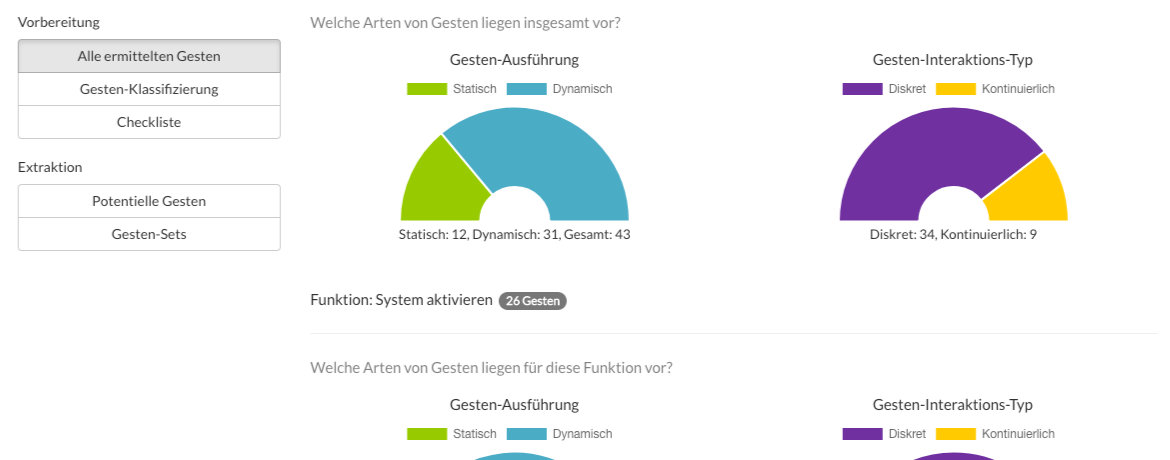
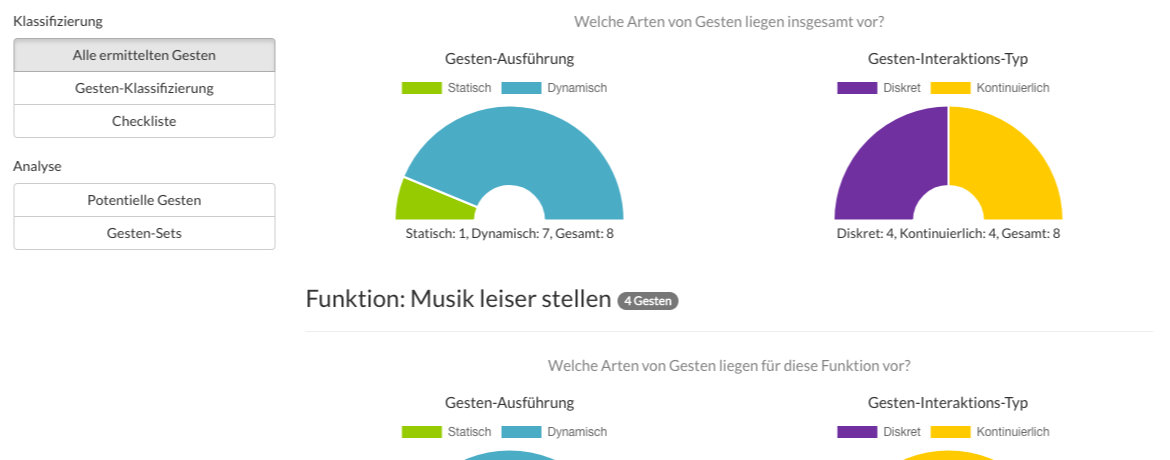
- update introductions - fix bugs for introductions

diff --git a/js/study.js b/js/study.js
@@ -1,4 +1,4 @@
-function renderData(data, hash, showStudyTutorial, showExtractionTutorial) {
+function renderData(data, hash) {
     var studyData = data.studyData;
     // general data view
     $('#study-headline').text(studyData.generalData.title);
@@ -206,6 +206,11 @@ function renderData(data, hash, showStudyTutorial, showExtractionTutorial) {
             window.location.hash = activeId;
             $(document).scrollTop(0);
             TweenMax.from($('#main-content'), .2, {y: -10, opacity: 0.0, clearProps: 'all'});
+            
+            setTimeout(function() {
+                tutorialAutomaticClicked = true;
+                $('#tab-introduction a').click();
+            }, 300);
         }
     });
 
@@ -216,9 +221,9 @@ function renderData(data, hash, showStudyTutorial, showExtractionTutorial) {
         $('#tab-pane').find('#general a').click();
     }
 
-    if (showStudyTutorial === 1 || showExtractionTutorial === 1) {
-        $('#tab-introduction a').click();
-    }
+//    if (showStudyTutorial === 1 || showExtractionTutorial === 1) {
+//        $('#tab-introduction a').click();
+//    }
 
     function renderCatalogs() {
         // catalogs view

diff --git a/study.php b/study.php
@@ -247,14 +247,14 @@ if (login_check($mysqli) == true) {
 
                     <div class="col-sm-4 col-md-3" style="margin-bottom: 20px">
                         <div data-spy="affix" data-offset-top="0" id="gesture-extraction-navigation">
-                            <h5 class="text"><?php echo $lang->extractionContent->preparation ?></h5>
+                            <h5 class="text"><?php echo $lang->extractionContent->classification ?></h5>
                             <div class="btn-group-vertical btn-block" id="btns-general">
                                 <button class="btn btn-default btn-shadow" type="button" id="btn-all-gestures"><span class="btn-text"><?php echo $lang->extractionContent->allElicitedGestures ?></span></button>
                                 <button class="btn btn-default btn-shadow" type="button" id="btn-gesture-classification"><span class="btn-text"><?php echo $lang->extractionContent->gestureClassification ?></span></button>
                                 <button class="btn btn-default btn-shadow" type="button" id="btn-checklist"><span class="btn-text"><?php echo $lang->extractionContent->checklist ?></span></button>
                             </div>
 
-                            <h5 class="text" style="margin-top: 20px"><?php echo $lang->phaseType->extraction ?></h5>
+                            <h5 class="text" style="margin-top: 20px"><?php echo $lang->extractionContent->analysis ?></h5>
                             <div class="btn-group-vertical btn-block" id="btns-arrange-gesture-sets">
                                 <button class="btn btn-default btn-shadow disabled" type="button" id="btn-potential-gestures"><span class="btn-text"><?php echo $lang->extractionContent->potentialGestures ?></span></button>
                                 <button class="btn btn-default btn-shadow disabled" type="button" id="btn-gesture-sets"><span class="btn-text"><?php echo $lang->gestureSets ?></span></button>
@@ -384,14 +384,14 @@ if (login_check($mysqli) == true) {
 
                     <div class="col-sm-4 col-md-3" style="margin-bottom: 20px">
                         <div data-spy="affix" data-offset-top="0" id="trigger-extraction-navigation">
-                            <h5 class="text"><?php echo $lang->extractionContent->preparation ?></h5>
+                            <h5 class="text"><?php echo $lang->extractionContent->classification ?></h5>
                             <div class="btn-group-vertical btn-block" id="btns-general">
                                 <button class="btn btn-default btn-shadow" type="button" id="btn-all-trigger"><span class="btn-text"><?php echo $lang->extractionContent->allElicitedTrigger ?></span></button>
                                 <button class="btn btn-default btn-shadow" type="button" id="btn-trigger-classification"><span class="btn-text"><?php echo $lang->extractionContent->triggerClassification ?></span></button>
                                 <button class="btn btn-default btn-shadow" type="button" id="btn-checklist"><span class="btn-text"><?php echo $lang->extractionContent->checklist ?></span></button>
                             </div>
 
-                            <h5 class="text" style="margin-top: 20px"><?php echo $lang->phaseType->extraction ?></h5>
+                            <h5 class="text" style="margin-top: 20px"><?php echo $lang->extractionContent->analysis ?></h5>
                             <div class="btn-group-vertical btn-block" id="btns-arrange-trigger-sets">
                                 <button class="btn btn-default btn-shadow disabled" type="button" id="btn-potential-trigger"><span class="btn-text"><?php echo $lang->extractionContent->potentialTrigger ?></span></button>
                                 <!--<button class="btn btn-default btn-shadow disabled" type="button" id="btn-gesture-sets"><span class="btn-text"><?php echo $lang->gestureSets ?></span></button>-->
@@ -604,6 +604,9 @@ if (login_check($mysqli) == true) {
                 });
             });
 
+            var showStudyTutorial = 0;
+            var showExtractionTutorial = 0;
+            var tutorialAutomaticClicked = false;
             function onAllExternalsLoadedSuccessfully() {
                 renderSubPageElements();
                 var query = getQueryParams(document.location.search);
@@ -612,9 +615,9 @@ if (login_check($mysqli) == true) {
                     getStudyById({studyId: query.studyId}, function (result) {
                         if (result.status === RESULT_SUCCESS) {
                             setStudyData(result);
-                            var showStudyTutorial = parseInt(<?php echo $_SESSION['tutorialStudy'] ?>);
-                            var showExtractionTutorial = parseInt(<?php echo $_SESSION['tutorialExtraction'] ?>);
-                            renderData(result, hash, showStudyTutorial, showExtractionTutorial);
+                            showStudyTutorial = parseInt(<?php echo $_SESSION['tutorialStudy'] ?>);
+                            showExtractionTutorial = parseInt(<?php echo $_SESSION['tutorialExtraction'] ?>);
+                            renderData(result, hash);
                             initPopover();
                         }
                     });
@@ -623,31 +626,61 @@ if (login_check($mysqli) == true) {
 
             $('#tab-introduction a').on('click', function (event) {
                 event.preventDefault();
-                var activeTab = $('#tab-pane').find('.active a').attr('href');
-                var helpContext = 'study';
-                var helpKey = 'introductionStudy';
+//                showStudyTutorial = parseInt(<?php echo $_SESSION['tutorialStudy'] ?>);
+//                showExtractionTutorial = parseInt(<?php echo $_SESSION['tutorialExtraction'] ?>);
+                var showTutorial = false;
 
-                if (activeTab !== '#generalData') {
-                    switch (activeTab) {
-                        case '#study-catalogs':
-                            $('#custom-modal').attr('data-start-tab-id', 'study-catalogs');
-                            break;
-                        case '#study-participants':
-                            $('#custom-modal').attr('data-start-tab-id', 'study-participants');
-                            break;
-                        case '#gesture-extraction':
-                            $('#custom-modal').removeAttr('data-start-tab-id');
-                            helpKey = 'introductionExtraction';
-                            helpContext = 'extraction';
-                            break;
+                console.log('show tutorial', tutorialAutomaticClicked, showStudyTutorial, showExtractionTutorial);
+                if (tutorialAutomaticClicked === false || (tutorialAutomaticClicked === true && (showStudyTutorial === 1 || showExtractionTutorial === 1))) {
+                    var activeTab = $('#tab-pane').find('.active a').attr('href');
+                    var helpContext = 'study';
+                    var helpKey = 'introductionStudy';
+
+                    if (activeTab !== '#generalData') {
+                        switch (activeTab) {
+                            case '#general-infos':
+                                $('#custom-modal').removeAttr('data-start-tab-id');
+                                showTutorial = tutorialAutomaticClicked === false || showStudyTutorial === 1;
+                                break;
+                            case '#study-catalogs':
+                                $('#custom-modal').attr('data-start-tab-id', 'study-catalogs');
+                                showTutorial = tutorialAutomaticClicked === false || showStudyTutorial === 1;
+                                break;
+                            case '#study-participants':
+                                $('#custom-modal').attr('data-start-tab-id', 'study-participants');
+                                showTutorial = tutorialAutomaticClicked === false || showStudyTutorial === 1;
+                                break;
+                            case '#gesture-extraction':
+                                var activeExtractionTab = $('#gesture-extraction-navigation').find('.active').attr('id');
+
+                                switch (activeExtractionTab) {
+                                    case 'btn-all-gestures':
+                                    case 'btn-gesture-classification':
+                                    case 'btn-checklist':
+                                        $('#custom-modal').removeAttr('data-start-tab-id');
+                                        break;
+                                    case 'btn-potential-gestures':
+                                    case 'btn-gesture-sets':
+                                    case 'btn-potential-trigger':
+                                        $('#custom-modal').attr('data-start-tab-id', 'analysis');
+                                        break;
+                                }
+
+                                helpKey = 'introductionExtraction';
+                                helpContext = 'extraction';
+                                showTutorial = tutorialAutomaticClicked === false || showExtractionTutorial === 1;
+                                break;
+                        }
+                    }
+
+                    if (showTutorial) {
+                        $('#custom-modal').attr('data-help-items-key', helpKey);
+                        $('#custom-modal').attr('data-help-context', helpContext);
+                        $('#custom-modal').attr('data-help-show-tutorial', parseInt(helpContext === 'study' ? showStudyTutorial : showExtractionTutorial));
+                        loadHTMLintoModal('custom-modal', 'externals/modal-introduction.php', 'modal-lg');
                     }
                 }
-
-                console.log(helpContext, helpKey);
-                $('#custom-modal').attr('data-help-items-key', helpKey);
-                $('#custom-modal').attr('data-help-context', helpContext);
-                $('#custom-modal').attr('data-help-show-tutorial', parseInt(helpContext === 'study' ? <?php echo $_SESSION['tutorialStudy'] ?> : <?php echo $_SESSION['tutorialExtraction'] ?>));
-                loadHTMLintoModal('custom-modal', 'externals/modal-introduction.php', 'modal-lg');
+                tutorialAutomaticClicked = false;
             });
 
             $('#btn-scroll-to-top').click(function (event) {

diff --git a/externals/modal-introduction.php b/externals/modal-introduction.php
@@ -46,15 +46,15 @@ include '../includes/language.php';
 <script>
     $(document).ready(function () {
         var modal = $('#custom-modal');
-        var items = $(modal).attr('data-help-items-key');
+        var itemsKey = $(modal).attr('data-help-items-key');
         var startTabId = $(modal).attr('data-start-tab-id');
 
-        console.log(items, translation[items]);
-        var items = translation[items];
+//        console.log(items, translation[items]);
+        var items = translation[itemsKey];
         for (var i = 0; i < items.length; i++) {
             
             var helpItem = items[i];
-            console.log(helpItem);
+//            console.log(helpItem);
             var item = $('#carousel-listbox-item').clone().removeClass('hidden').removeAttr('id');
             $(item).find('img').attr('src', helpItem.imgSrc);
             $(item).find('.carousel-caption-header').text(helpItem.title);
@@ -81,9 +81,9 @@ include '../includes/language.php';
                     $(indicatorItem).addClass('active');
                     $(item).addClass('active');
                 }
-console.log(i, startTabId);
+//console.log(i, startTabId);
                 if (helpItem.description && helpItem.description.length > 0) {
-                    console.log('render help description', helpItem.description);
+//                    console.log('render help description', helpItem.description);
                     $(modal).find('#help-description').removeClass('hidden');
                     $(modal).find('#help-description').html(helpItem.description);
                 }
@@ -100,8 +100,9 @@ console.log(i, startTabId);
 
         $(modal).find('#carousel-introduction-generic').unbind('slid.bs.carousel').bind('slid.bs.carousel', function () {
             var currentIndex = parseInt($(modal).find('#carousel-introduction-generic .carousel-indicators .active').attr('data-slide-to'));
-            if (items && translation[items] && translation[items].length > 0) {
-                var helpItem = translation[items][currentIndex];
+            console.log(currentIndex, translation[itemsKey], itemsKey);
+            if (items && items.length > 0) {
+                var helpItem = items[currentIndex];
                 if (helpItem.description) {
                     $(modal).find('#help-description').html('');
 //                    $(modal).find('#help-description').removeClass('hidden');
@@ -128,7 +129,7 @@ console.log(i, startTabId);
             closeIntroduction();
         });
 
-        function closeIntroduction() {
+        function closeIntroduction() {           
             var dontShowIntroduction = $(modal).find('#checkbox-automatic-show .btn-checkbox').hasClass('btn-option-checked');
             updateIntroduction({context: $(modal).attr('data-help-context'), dontShowIntroduction: dontShowIntroduction ? 0 : 1});
             $(modal).removeAttr('data-help-items-key');
@@ -136,6 +137,12 @@ console.log(i, startTabId);
             $(modal).removeAttr('data-help-show-tutorial');
             $(modal).removeAttr('data-start-tab-id');
             $(modal).modal('hide');
+            
+            if(itemsKey === 'introductionStudy') {
+                showStudyTutorial = dontShowIntroduction ? 0 : 1;
+            } else if(itemsKey === 'introductionExtraction') {
+                showExtractionTutorial = dontShowIntroduction ? 0 : 1;
+            }
         }
     });
 </script>
